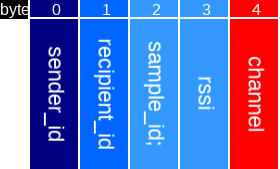
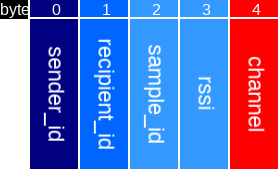
Documentation of Mesh, incorporate explanations by @vliedel.

Changed region(s): [[0.5143, 0.2367, 0.6, 0.6805], [0.5143, 0.7396, 0.6, 0.858]]

diff --git a/scripts/gen-diagram.py b/scripts/gen-diagram.py
@@ -10,7 +10,7 @@ DOCS_DIR_PREFIX = "../"
 DOCS_DIR = "../docs/"
 DIR = "diagrams/"
 GEN_DIR = DOCS_DIR + DIR
-FILENAMES = [DOCS_DIR + F for F in ["PROTOCOL.md", "BEHAVIOUR.md", "SERVICE_DATA.md", "SERVICE_DATA_DEPRECATED.md", "BROADCAST_PROTOCOL.md", "UART_PROTOCOL.md", "MESH_PROTOCOL.md", "IPC.md"]]
+FILENAMES = [DOCS_DIR + F for F in ["PROTOCOL.md", "BEHAVIOUR.md", "SERVICE_DATA.md", "SERVICE_DATA_DEPRECATED.md", "BROADCAST_PROTOCOL.md", "UART_PROTOCOL.md", "MESH_PROTOCOL.md", "IPC.md", "MESH.md"]]
 
 fontPath = DOCS_DIR + "diagrams/fonts/LiberationSans-Regular.ttf"
 fontSizeBlocks = 24

diff --git a/docs/MESH.md b/docs/MESH.md
@@ -1,6 +1,6 @@
 # Mesh
 
-The bluenet firmware supports Bluetooth Mesh. On top of Bluetooth Mesh we have defined a protocol, which can be found
+The bluenet firmware supports Bluetooth Mesh. On top of Bluetooth Mesh (spec, [pdf](https://www.bluetooth.org/docman/handlers/downloaddoc.ashx?doc_id=457092)) we have defined a protocol, which can be found
 [here](MESH_PROTOCOL.md).
 
 Bluetooth mesh uses **flooding**. Each node broadcasts to all its neighbouring nodes. All authenticated network packets
@@ -58,7 +58,13 @@ the air and the IV (4 bytes) is only very slowly changing and considered to be k
 
 The encryption itself is done through AES-CCM (just as Bluetooth LE).
 
-## Mesh message packet
+## Mesh messages
+
+This overview from silabs gives the best insight into segmentation.
+
+![Mesh segment](../docs/images/silabs-bluetooth-segmentation.jpg)
+
+Compare the below with this image to get a grasp on the make-up of a packet.
 
 ![Mesh message packet](../docs/diagrams/mesh-message-packet.png)
 
@@ -78,6 +84,9 @@ The first byte are in the clear, then there are a couple obfuscated, and destina
 encrypted. The transport PDU is of of a maximum size of 128 bits (16 bytes) for an access message and 96 bits (12 bytes)
 for a control message. The total message is 31 bytes.
 
+The TTL can have a value of `0`. In that case the message will not be relayed. This means all receiving nodes will
+know that this message is a single radio link away. This can be used to build up a topology of the network.
+
 The transport payload can be separated into multiple segments. However, this eats a little bit from the payload to 
 indicate the segment index and count. For our access messages with a transport PDU of 16 bytes:
 
@@ -85,28 +94,47 @@ indicate the segment index and count. For our access messages with a transport P
 
 Type | Name | Length in bits | Description
 --- | --- | --- | ---
-uint8 | 1 | 1 | High bit means a segmented message
+uint8 | SEG=1 | 1 | High bit means a segmented message
 uint8 | AKF | 1 | Indicates the application layer key
 uint8 | AID | 6 | Defines the application layer key
 uint8 | SZMIC | 1 | Indicates that the size of the NetMIC in the upper layer is 4 bytes (32 bits)
 uint8 | SeqZero | 13 | Least significant bits of SeqAuth.
 uint8 | SegO | 5 | Segment number of segment m
 uint8 | SegN | 5 | Maximum number of segments
-uint8 | Segment m | 96 | The actual segment contents (for last segment can be 8 up to 96 bits)
+uint8 | Segment m | 96 | The segment itself (for last segment can be 8 up to 96 bits)
 
 You see that a single segmented message contains 96 bits or only 12 bytes. It is actually even worse. Even that
 segment is not free to define.
 
 Type | Name | Length in bits | Description
 --- | --- | --- | ---
-uint8 | vendor | 32 | Vendor model identifier (16 bits for SIG model ids)
-uint8 | opcode | 24 | A manufacturer-specific opcode starts with `11` and takes 3 bytes.
+uint8 | Opcode | 24 | A manufacturer-specific opcode starts with `11` and takes 3 bytes.
+uint8 | Payload | 40 | Actual contents (5 bytes)
+uint8 | TransMIC | 32 | Transport Message Integrity Check (4 bytes)
 
-Now there are only 12 - 7 = 5 bytes left.
+Note that there are only 5 bytes of actualy contents left (8 bytes if you add the opcode)!
 
-TODO: There should be 8 bytes for non-segmented messages. Spell this out as well.
+![Mesh transport PDU unsegmented](../docs/diagrams/mesh-transport-pdu-unsegmented.png)
 
-TODO: Explain why only 6 bytes are available in `MESH_PROTOCOL`.
+Type | Name | Length in bits | Description
+--- | --- | --- | ---
+uint8 | SEG=0 | 1 | Low bit means a segmented message
+uint8 | AKF | 1 | Indicates the application layer key
+uint8 | AID | 6 | Defines the application layer key
+uint8 | Upper PDU | 120 | The upper transport access PDU
+
+There are 120 bits (15 bytes). And again this is divided into:
+
+Type | Name | Length in bits | Description
+--- | --- | --- | ---
+uint8 | Opcode | 24 | A manufacturer-specific opcode starts with `11` and takes 3 bytes.
+uint8 | Payload | 64 | Actual contents (8 bytes)
+uint8 | TransMIC | 32 | Transport Message Integrity Check (4 bytes)
+
+There are 64 bits for the message (8 bytes).
+
+The [protocol](MESH_PROTOCOL.md) uses one byte for the message type which leaves 7 bytes for contents to be communicated
+over the mesh. Note that this not contain versioning. From the first byte starting with `11` we might use the remaining six to do versioning later on.
 
 ## Radio access
 
@@ -118,6 +146,12 @@ The mesh stack implements a Bluetooth LE compliant **scanner**. This is enabled 
 ```
 MESH_SCANNER = 1
 ```
+
+We use actually a clone of the implementation on the Bluetooth Mesh by Nordic (see [here](https://github.com/crownstone/nRF5-SDK-for-Mesh)) which implements **active scanning**. The default is passive scanning which only listens on the
+radio for incoming advertisements. Active scanning means that the firmware asks for more information in the form of
+a **scan response request** and gets this information as a **scan response**.
+
+Over the course of time broadcasts of advertisements on iOS are moving more and more data into scan responses. First, when having apps running in the background, but this might be now the case for apps running in the foreground as well. This is why those **scan response requests** are important to send out. The details of this can be found in the [broadcast protocol](BROADCAST_PROTOCOL.md).
 
 Similarly, it has **advertiser(s)** implemented as well. We do use both the ordinary advertiser in the nRF5 SDK and
 the advertiser in the mesh.
@@ -137,11 +171,10 @@ _advertiser.setMacAddress(address)
 
 This advertiser is responsible for broadcasting iBeacon messages (it can even iterate through a couple of them).
 
-The `Advertiser` class defined in `cs_Advertiser.cpp` is responsible for broadcasting advertisements (or scan
-responses) with Crownstone service data.
 
-TODO: Indicate why this cannot be done by the mesh advertiser. Has it to do with
-https://github.com/crownstone/bluenet/issues/67?
+The `Advertiser` class defined in `cs_Advertiser.cpp` is responsible for broadcasting advertisements (or scan
+responses) with Crownstone service data. This advertiser sends out **connectable advertisements**. It is not possible
+to do that with the advertiser in the mesh SDK.
 
 ## Self-provisioning
 
@@ -155,10 +188,11 @@ by the mesh. We obtain keys etc from persistent memory and define an address as 
 provisionSelf(uint16_t id)
 ```
 
-This reduces the number of potential nodes from `2^16` to `2^8`. 
+This reduces the number of potential nodes from `2^16` to `2^8`. There are a couple of places from which this
+limitation stems:
 
-TODO: Indicate for which parts in the protocol the limitation to 8 bits is forced.
-
+* To send RSSI reports between two nodes we currently require 5 bytes, using `uint16_t` would push it to 7 bytes which would require us to drop or compression meta-info about the channel for example.
+* To send a multi-switch message (this only switches a single Crownstone though) we use 7 bytes. It allows to execute with a delay using a timestamp of 2 bytes and it specifies the source of the command (switchcraft, connection, internal, etc.) including a counter with 3 bytes. Going to `uint16_t` would require e.g. compression of the delay field (e.g. using the high bit to indicate two different time regimes).
 
 ## Syncing
 

diff --git a/docs/MESH_PROTOCOL.md b/docs/MESH_PROTOCOL.md
@@ -5,6 +5,16 @@ This only documents the latest protocol, older versions can be found in the git 
 
 ## Message types
 
+![Crownstone mesh message](../docs/diagrams/crownstone-mesh-message.png)
+
+Type | Name | Length | Description
+--- | --- | --- | ---
+uint8 | Message type | 1 | A type of mesh message (see table below)
+uint8 | Payload | 7 | Payload for the mesh message
+
+This is in total 8 bytes (an unsegmented message). There's currently no versioning in use except for bumping the 
+identifier of a message.
+
 id | name | Payload | Result data
 ---|---|---|---
 0 | CS_MESH_MODEL_TYPE_TEST | [cs_mesh_model_msg_test_t](#cs_mesh_model_msg_test_t)
@@ -156,7 +166,7 @@ uint8_t | List size | 1 | Size of tracked devices list.
 
 Type | Name | Length | Description
 --- | --- | --- | ---
-uint8_t | Stone ID | 1 | ID of stone that requests for a sync.
+stone_id_t | Stone ID | 1 | ID of stone that requests for a sync.
 uint32_t | [requestBitmask](#sync-bitmask) | 4 | Bitmask of all things that are requested to be synced.
 
 
@@ -205,13 +215,13 @@ uint8_t | [Persistence mode](PROTOCOL.md#state-set-persistence-mode) | 2 | Type 
 #### rssi_ping_message_t
 ![Rssi ping message](../docs/diagrams/rssi_ping_msg.png)
 
-Type | Name | Length | Description
---- | --- | --- | ---
-stone_id_t | sender_id   | 1 |
-stone_id_t |recipient_id | 1 |
-uint8_t    | sample_id;  | 1 |
-int8_t     |rssi         | 1 |
-uint8_t    | channel     | 1 |
+Type       | Name         | Length | Description
+---        | ---          | ---    | ---
+stone_id_t | sender_id    | 1      | ID of node sending the message
+stone_id_t | recipient_id | 1      | ID of the receiving node
+uint8_t    | sample_id    | 1      | ID of the sample
+int8_t     | rssi         | 1      | RSSI at the receiver
+uint8_t    | channel      | 1      | channel over which the message was broadcasted
 
 
 #### high_resolution_time_stamp_t
